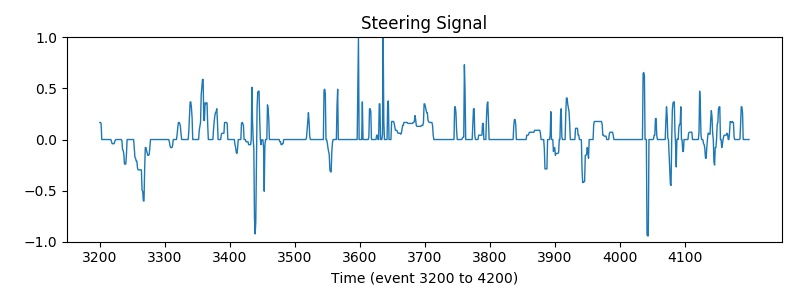
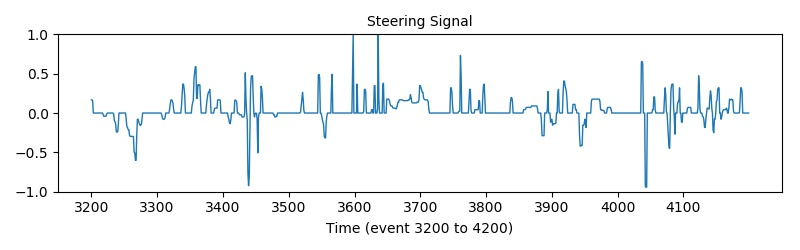
plots made smaller

diff --git a/visualization_helpers.py b/visualization_helpers.py
@@ -40,15 +40,15 @@ def save_steering_histogram(y_train, title, filename):
     fig = plt.figure(figsize=(4, 4))
     hist, bins = np.histogram(y_train, bins=50, range=(-1, 1))
     plt.bar(bins[:-1], hist, align='center', width=0.1)
-    plt.title(title)
+    plt.title(title, fontsize=10)
     plt.ylabel('Number of Occurrences')
     plt.tight_layout()
     fig.savefig(filename)
 
 
 def save_steering_signal(signal, time_range, filename):
-    fig = plt.figure(figsize=(8, 3))
-    plt.title('Steering Signal')
+    fig = plt.figure(figsize=(8, 2.5))
+    plt.title('Steering Signal', fontsize=10)
     plt.xlabel("Time (event {} to {})".format(time_range[0], time_range[1]))
     plt.ylim(-1, 1)
     plt.plot(signal[time_range[0]:time_range[1]], linewidth=1)

diff --git a/README.md b/README.md
@@ -220,7 +220,8 @@ After trial and error we used horizontal image flipping and side camera images w
 
 #### 4. Model Architecture
 
-We tried 2 different models these can be seen in `model.py`. Finally a simplified nvidia model was used. 
+We tried 2 different models. The Nvidia model and a simplified one. 
+These can be seen in `model.py`. Finally the simplified model was used. 
 
 ```
  def simplified_nvidia_model_with_dropout(input_shape):
@@ -242,10 +243,11 @@ We tried 2 different models these can be seen in `model.py`. Finally a simplifie
     return model
 ```
  
-Dropouts were added to prevent the model from overtraining. A larger stride (3,3) as compared with a (2,2) stride used by Nvidia is employed in the first Conv2D layer as we have a larger input image (90,270,3) as opposed to a (66x200,3).
+Dropouts were added to prevent the model from overtraining. 
+A larger stride (3,3) as compared with a (2,2) stride used by Nvidia is employed in the first Conv2D layer as we have a larger input image (90,270,3) as opposed to a (66x200,3).
 The model uses ELU layers to introduce nonlinearity. Here is a visualization of the architecture
 
-![model](static/model.png)<!-- .element height="30%" width="30% -->
+![model](static/model.png)<!-- .element height="30%" width="30%" -->
 
 #### 5. Training
 
